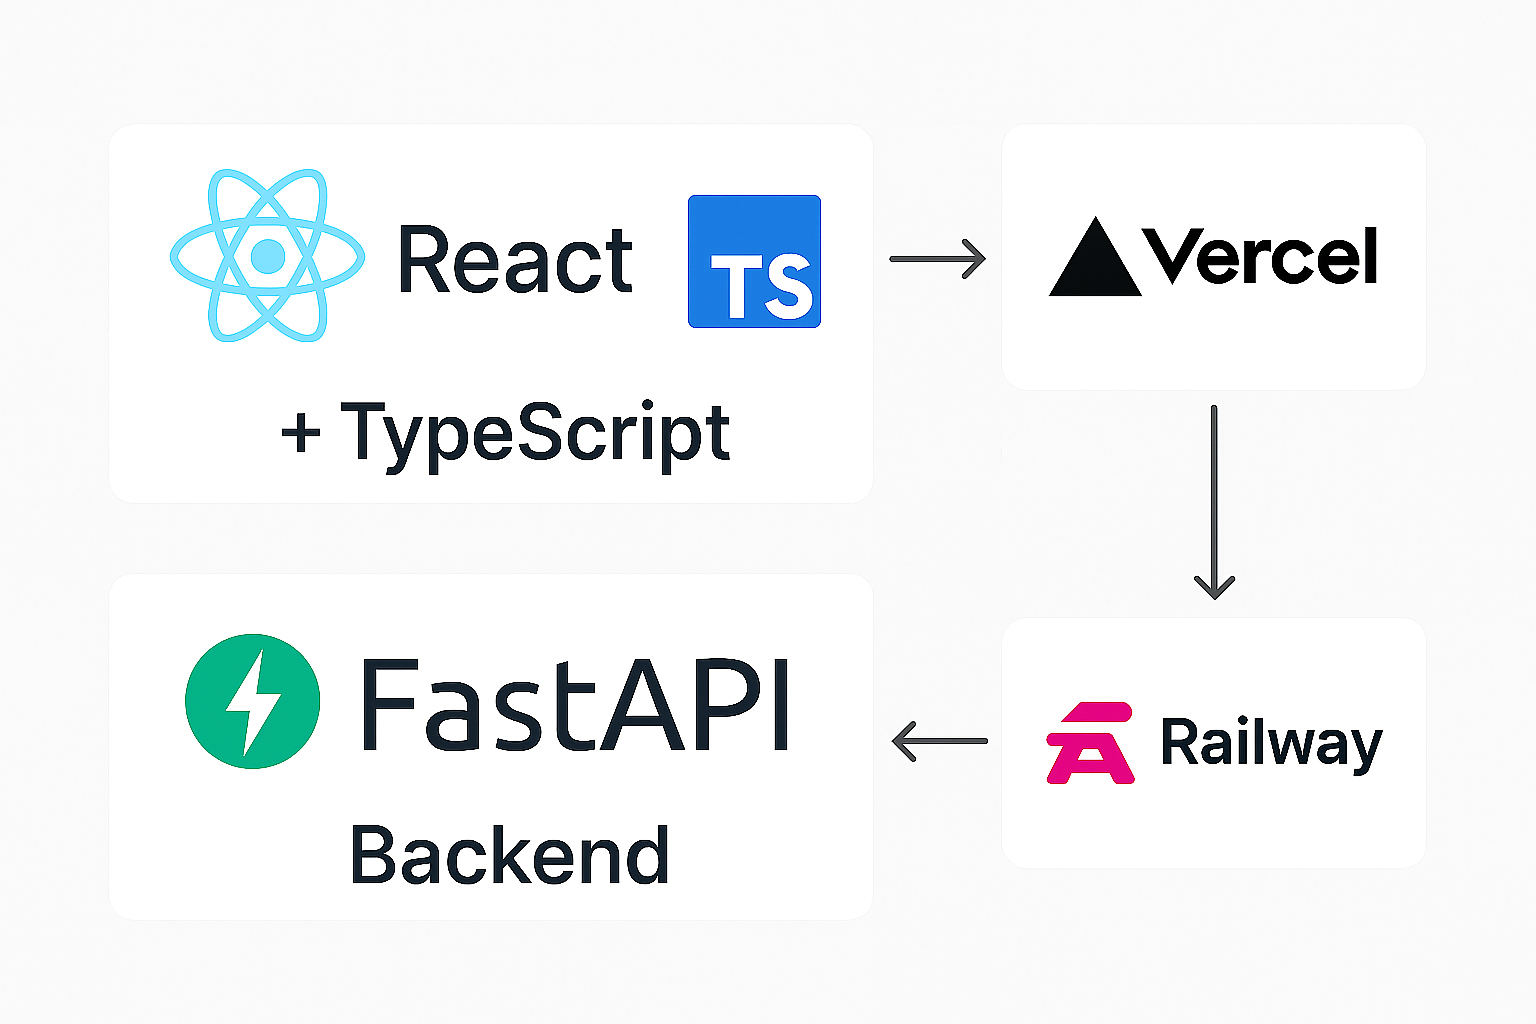
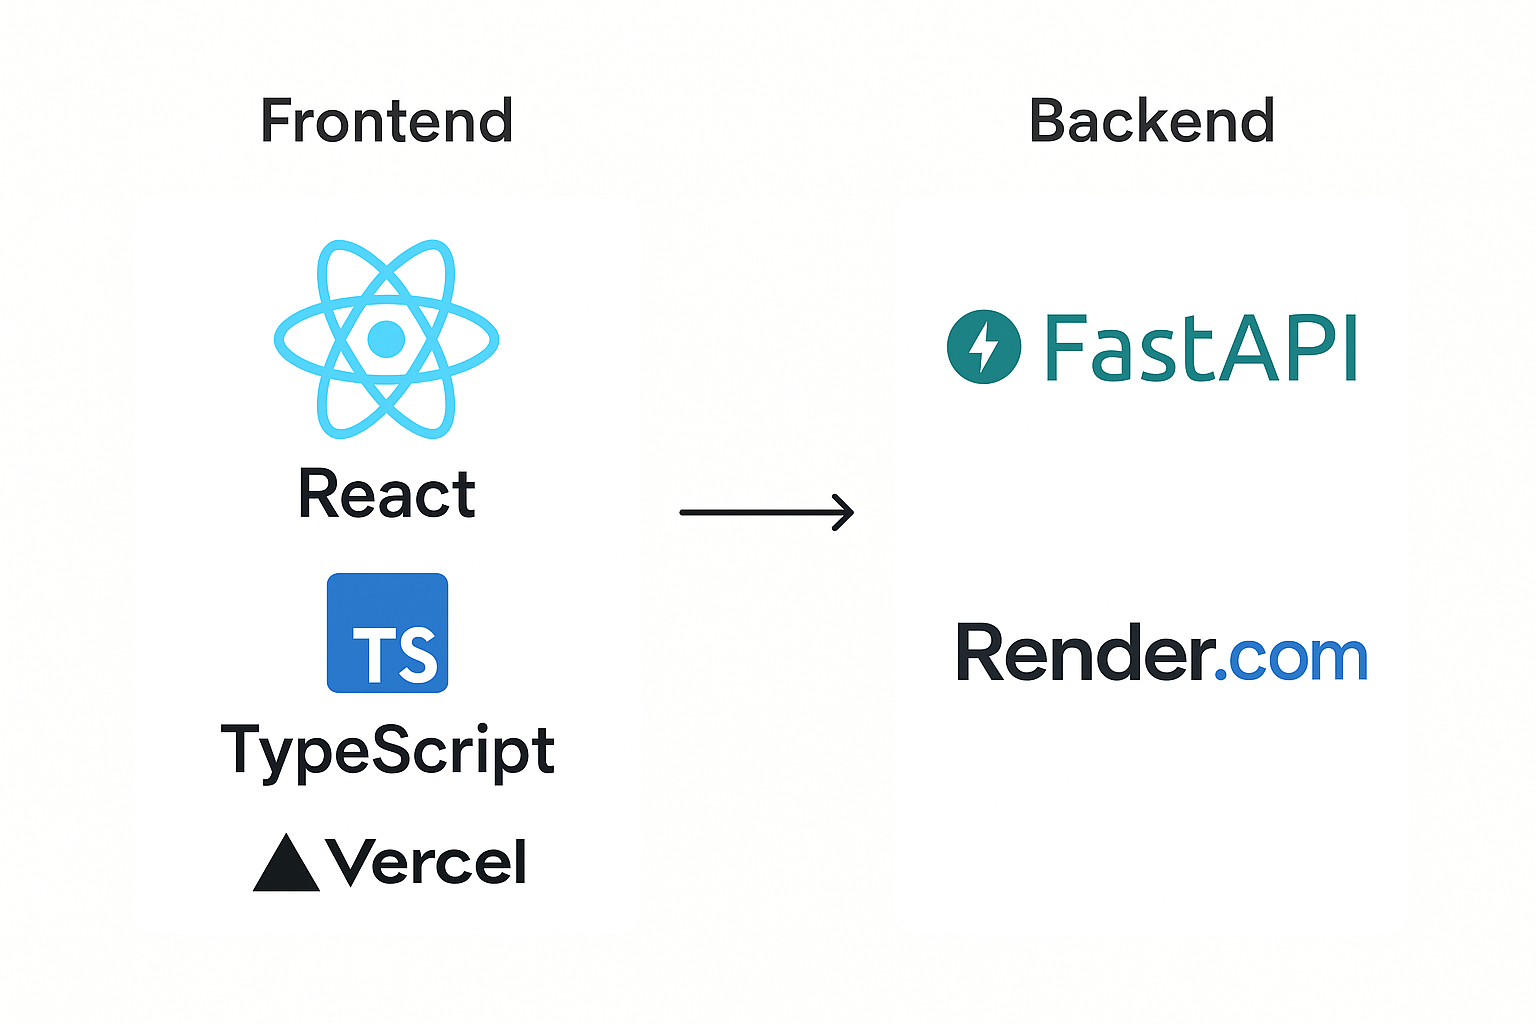
Readmeを修正:インフラ構成を変更した！

diff --git a/README.md b/README.md
@@ -99,8 +99,8 @@ npm start
 
 ## 🏗 アーキテクチャ構成
 React + TypeScript → Vercel (フロントエンド)
-FastAPI Backend → Railway (バックエンド)
-Vercel ↔ Railway (API連携)
+FastAPI Backend → Render (バックエンド)
+Vercel ↔ Render (API連携)
 
 ## 🏗 アーキテクチャ
 ![システム構成](./images/app_architecture.png)
